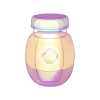
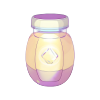
modified jar image and made the about screen simple again wo functionality

diff --git a/BreastMilk_app/screens/AboutScreen.js b/BreastMilk_app/screens/AboutScreen.js
@@ -1,19 +1,7 @@
-import { useLayoutEffect } from "react";
 import { StyleSheet, Text, View } from "react-native";
-import { useNavigation } from "@react-navigation/native";
-import {HeaderBackButton} from "@react-navigation/stack";
+
 
 const AboutScreen = () => {
-    
-    const navigation = useNavigation()
-    useLayoutEffect(()=>{
-        navigation.setOptions({
-            headerTitle: 'new title',
-            headerLeft: () => (
-                <HeaderBackButton label="Previous" onPress={() => navigation.goBack()} />
-            )
-        })
-    })
     return (
         <View style={styles.screen}>
             <Text>This is the about screen</Text>
